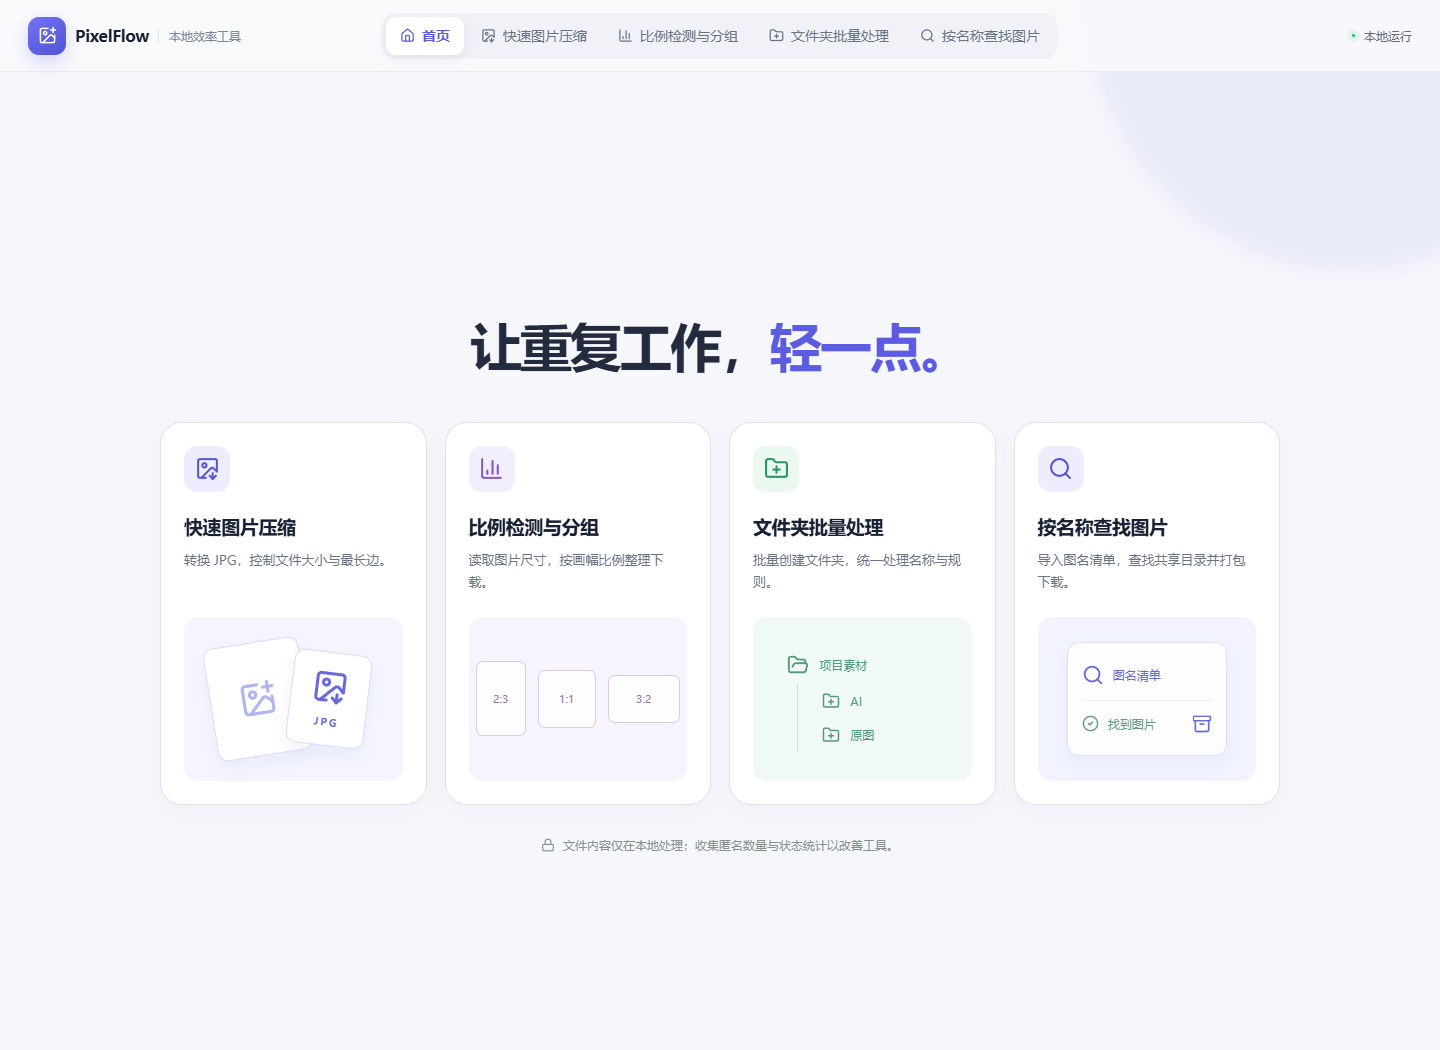
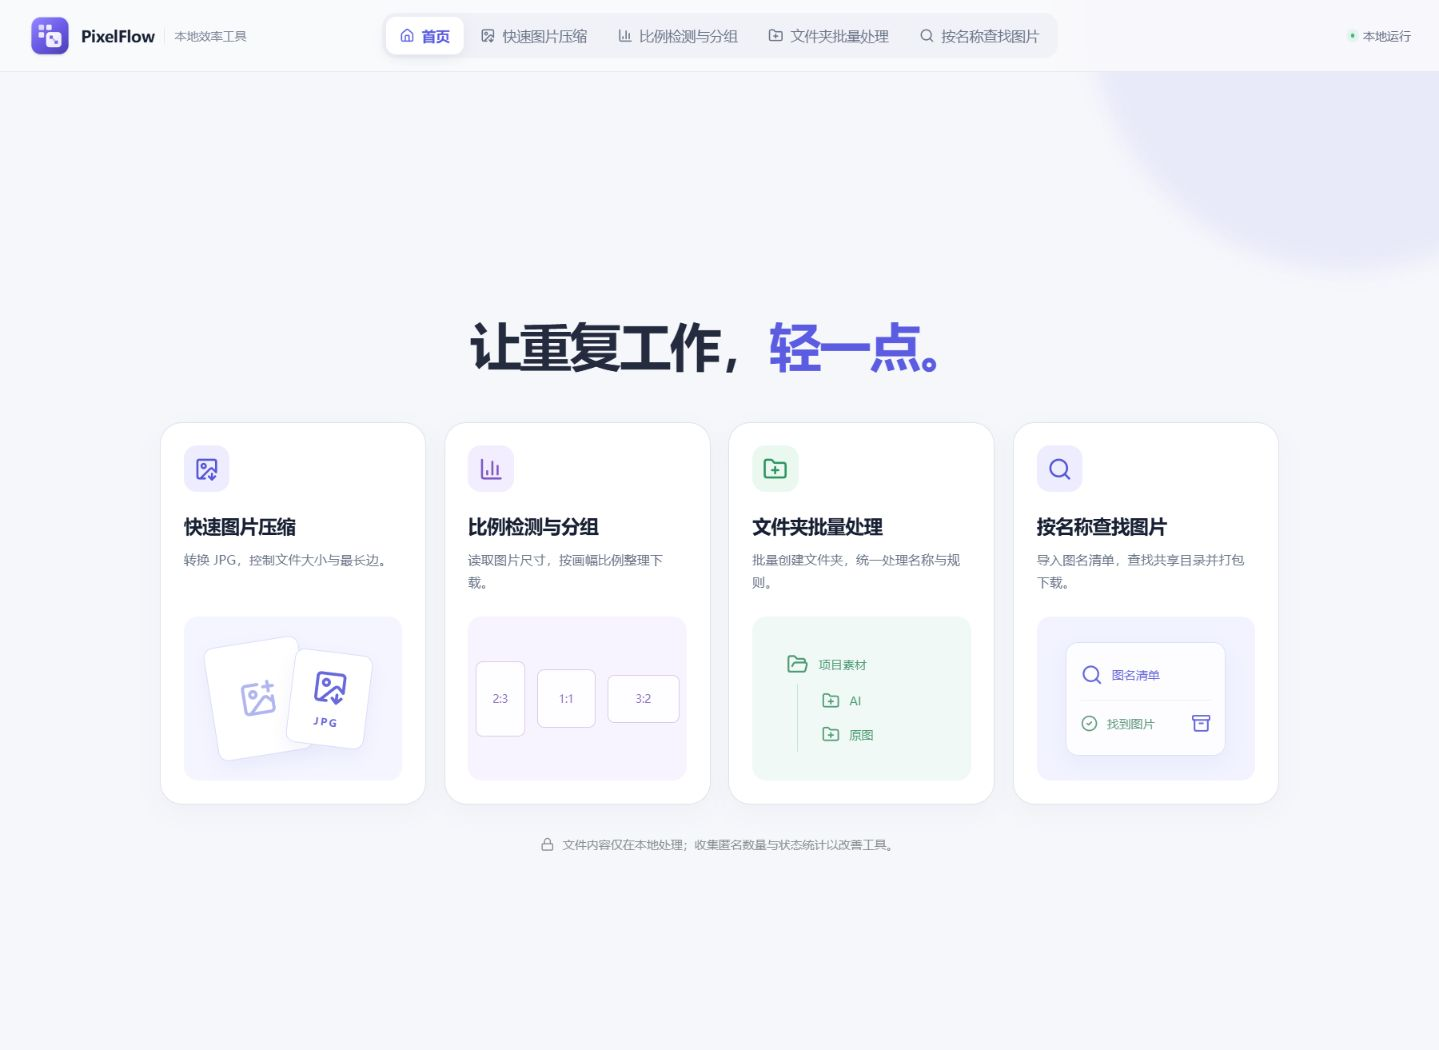
design: finalize PixelFlow brand and real product captures

diff --git a/src/App.tsx b/src/App.tsx
@@ -299,7 +299,7 @@ function SuiteHome({ onOpen }: { onOpen: (tool: ToolKey) => void }) {
 export default function App() {
   const [activeTool, setActiveTool] = useState<ToolKey>('home')
   const openTool = (tool: ToolKey) => { if (tool !== activeTool && tool !== 'home') track('tool_open', tool); setActiveTool(tool) }
-  return <ImageWorkspaceProvider><div className="suite-shell"><nav className="suite-nav"><button className="suite-brand" onClick={() => openTool('home')}><span><ImagePlus size={19} /></span><b>PixelFlow</b><small>本地效率工具</small></button><div className="suite-nav-links"><button className={activeTool === 'home' ? 'active' : ''} onClick={() => openTool('home')}><Home size={15} />首页</button>{tools.map(tool => <button key={tool.key} className={activeTool === tool.key ? 'active' : ''} onClick={() => openTool(tool.key)}><tool.icon size={15} />{tool.title}</button>)}</div><div className="nav-local"><span/>本地运行</div></nav>
+  return <ImageWorkspaceProvider><div className="suite-shell"><nav className="suite-nav"><button className="suite-brand" onClick={() => openTool('home')}><img className="suite-brand-mark" src="/pixelflow.svg" width={44} height={44} alt="" /><b>PixelFlow</b><small>本地效率工具</small></button><div className="suite-nav-links"><button className={activeTool === 'home' ? 'active' : ''} onClick={() => openTool('home')}><Home size={15} />首页</button>{tools.map(tool => <button key={tool.key} className={activeTool === tool.key ? 'active' : ''} onClick={() => openTool(tool.key)}><tool.icon size={15} />{tool.title}</button>)}</div><div className="nav-local"><span/>本地运行</div></nav>
     {activeTool === 'home' && <SuiteHome onOpen={openTool} />}
     {activeTool === 'compress' && <CompressionTool />}
     {activeTool === 'inspect' && <ImageInspector />}

diff --git a/src/suite.css b/src/suite.css
@@ -2,7 +2,7 @@
 .suite-shell::before { content: ""; position: fixed; z-index: 0; width: 520px; height: 520px; top: -250px; right: -170px; border-radius: 50%; background: rgba(102,103,231,.09); filter: blur(10px); pointer-events: none; }
 .suite-nav { position: sticky; z-index: 30; top: 0; height: 72px; padding: 0 max(28px, calc((100% - 1400px) / 2)); display: grid; grid-template-columns: 1fr auto 1fr; align-items: center; background: rgba(250,250,253,.82); border-bottom: 1px solid rgba(35,45,78,.08); backdrop-filter: blur(18px); }
 .suite-brand { justify-self: start; display: flex; align-items: center; gap: 9px; padding: 0; color: var(--text); background: transparent; border: 0; }
-.suite-brand>span { width: 38px; height: 38px; display: grid; place-items: center; color: #fff; background: linear-gradient(145deg, #7475f2, #5051d6); border-radius: 11px; box-shadow: 0 7px 18px rgba(91,92,226,.24); }
+.suite-brand-mark { width: 44px; height: 44px; display: block; flex: none; object-fit: contain; }
 .suite-brand b { font-size: 16px; letter-spacing: -.25px; }
 .suite-brand small { padding-left: 10px; color: #7f8798; border-left: 1px solid var(--border); font-size: 12px; font-weight: 500; }
 .suite-nav-links { height: 46px; padding: 4px; display: flex; align-items: center; gap: 3px; background: rgba(238,239,245,.75); border-radius: 14px; }

diff --git a/index.html b/index.html
@@ -4,6 +4,7 @@
     <meta charset="UTF-8" />
     <meta name="viewport" content="width=device-width, initial-scale=1.0" />
     <meta name="theme-color" content="#f6f7fb" />
+    <link rel="icon" href="/pixelflow.svg" type="image/svg+xml" />
     <meta name="description" content="PixelFlow：浏览器本地图片压缩、尺寸分析与文件夹批量创建工具箱" />
     <title>PixelFlow · 本地效率工具</title>
   </head>

diff --git a/docs/brand/README.md b/docs/brand/README.md
@@ -1,0 +1,33 @@
+# PixelFlow 品牌与展示素材
+
+更新：2026-10-27。图标采用用户确认的 A「精致轻立体」。本批基于 `e410603`，保留原工具功能。
+
+## 唯一品牌母版
+
+[`public/pixelflow.svg`](../../public/pixelflow.svg) 是可维护 SVG 母版，导航、浏览器图标和 README 共用同一文件。三个像素单元汇入画幅，保留靛紫识别，以瓷白表面和克制边缘光表达轻厚度。不要在各入口另画不同图形。
+
+## 正式截图
+
+首页于 2026-10-26 拍摄；功能与手机截图于 2026-10-27 从同一品牌构建实际操作取得。图片保留真实界面和结果；局部图片只改变取景。手机图来自真实窄屏布局，不表示已完成真机兼容性验收。
+
+| 文件 | 实际像素 | 用途 |
+|---|---|---|
+| [pixelflow-home.png](../images/pixelflow-home.png) | 1439 × 1050 | 首页总览，README 首图，保留真实导航与四项工具。 |
+| [pixelflow-cover.png](../images/pixelflow-cover.png) | 1168 × 540 | 首页标题与四项工具取景，用于宽封面。 |
+| [pixelflow-compression.jpg](../images/pixelflow-compression.jpg) | 1414 × 990 | 快速压缩的实际设置、队列与两张 PNG 转 JPG 结果，README 功能图。 |
+| [pixelflow-compression-focus.jpg](../images/pixelflow-compression-focus.jpg) | 1112 × 496 | 同一实际压缩状态的设置与结果局部，用于作品集详情。 |
+| [pixelflow-compression-mobile.jpg](../images/pixelflow-compression-mobile.jpg) | 351 × 400 | 真实窄屏队列结果局部，用于手机构图。 |
+| [pixelflow-finder-results.jpg](../images/pixelflow-finder-results.jpg) | 1112 × 397 | 真实查找结果：三项图名中两项找到、一项未找到，README 功能图。 |
+| [pixelflow-finder-mobile.jpg](../images/pixelflow-finder-mobile.jpg) | 351 × 622 | 真实窄屏图名、目录与查找结果局部，用于手机详情。 |
+| [pixelflow-home-mobile.jpg](../images/pixelflow-home-mobile.jpg) | 375 × 1876 | 真实 375px 宽首页全页，保留四工具重排及完整说明。 |
+| [pixelflow-cover-mobile.jpg](../images/pixelflow-cover-mobile.jpg) | 354 × 447 | 真实窄屏首页标题与首项工具取景，用于手机封面。 |
+
+README 选用完整首页、压缩界面与查找结果局部。其他取景用于作品集宽窄模块，不必在 README 重复铺陈。
+
+## 演示内容与复现
+
+压缩输入沿用灵犀项目公开演示图 `public/images/living-room.png`、`kitchen.png`，重命名为“室内场景.png”“厨房空间.png”。在快速图片压缩选择“仅转格式”并实际处理，得到 263.4 KB 和 193.7 KB 两个 JPG，尺寸均为 1024 × 1024。此结果只适用于这两个样本，不作为平均性能宣传。
+
+查找演示使用只包含上述两张图的独立目录，文字清单为“室内场景.png”“厨房空间.png”“待补充封面.png”，实际得到两项找到、一项未找到。未读取真实共享目录或个人图片，也未验证真实共享权限、线上统计或全部工具功能。
+
+逐文件尺寸、SHA-256、用途及源版本见 [`source-notes.json`](source-notes.json)。作品集集成应复制确定版本的选用素材；源项目继续维护正式资产。
